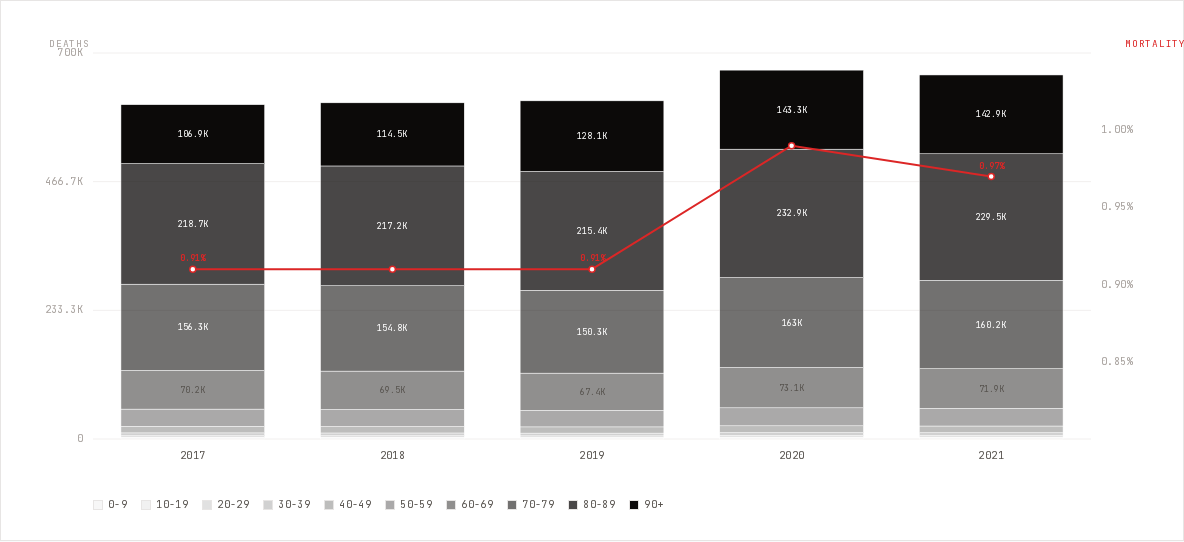
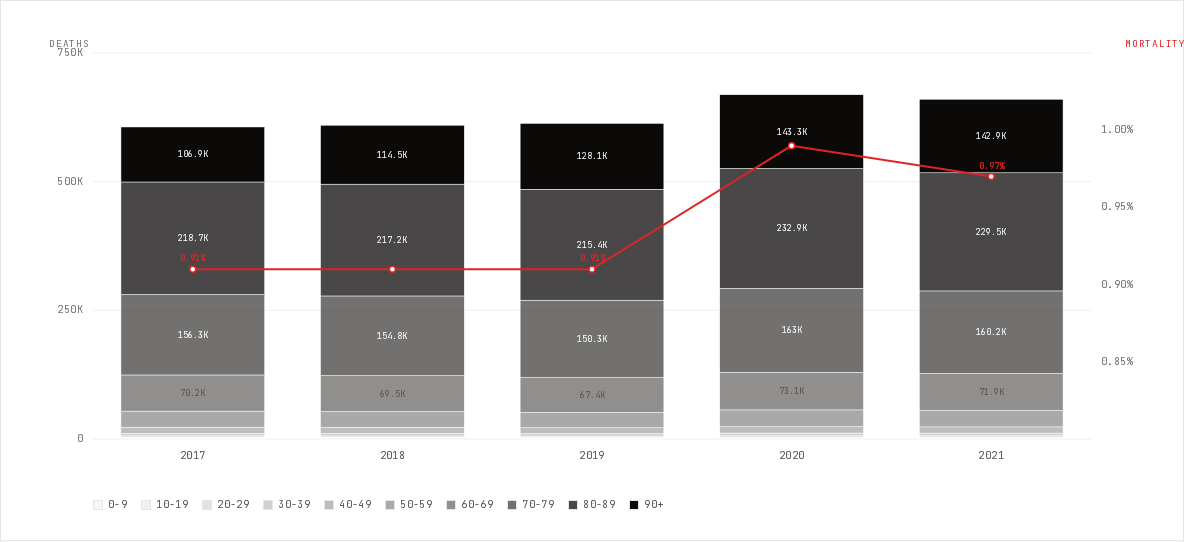
test(e2e): rebaseline distribution + update label match
CI surfaced two failures on the maquette alignment PR:

1. e2e behavior — golden-paths.spec.ts asserted exact match on the EN
   distribution title "Deaths by age", but that label was renamed to
   "Deaths by age group" (matches NEW_VERSION/i18n.js). Update the
   assertion.

2. e2e visual — distribution chart and view snapshots changed because
   the Y-axis ticks moved from 0/233.3K/466.7K/700K to 0/250K/500K/750K
   and bar value labels lost their decimal (170K vs 169.6K). Both are
   intentional alignments to the proto. Regenerate the linux baselines
   (Docker mcr.microsoft.com/playwright:v1.59.1-jammy + --update-snapshots).

diff --git a/e2e/golden-paths.spec.ts b/e2e/golden-paths.spec.ts
@@ -74,7 +74,7 @@ test.describe("golden paths — ISO functional contract for refactor v2", () => 
     await page.getByTitle("english", { exact: true }).click()
     await expect(page).toHaveURL(/\/distribution$/)
     await expect(
-      distributionCard.getByText("Deaths by age", { exact: true })
+      distributionCard.getByText("Deaths by age group", { exact: true })
     ).toBeVisible({
       timeout: 10_000,
     })